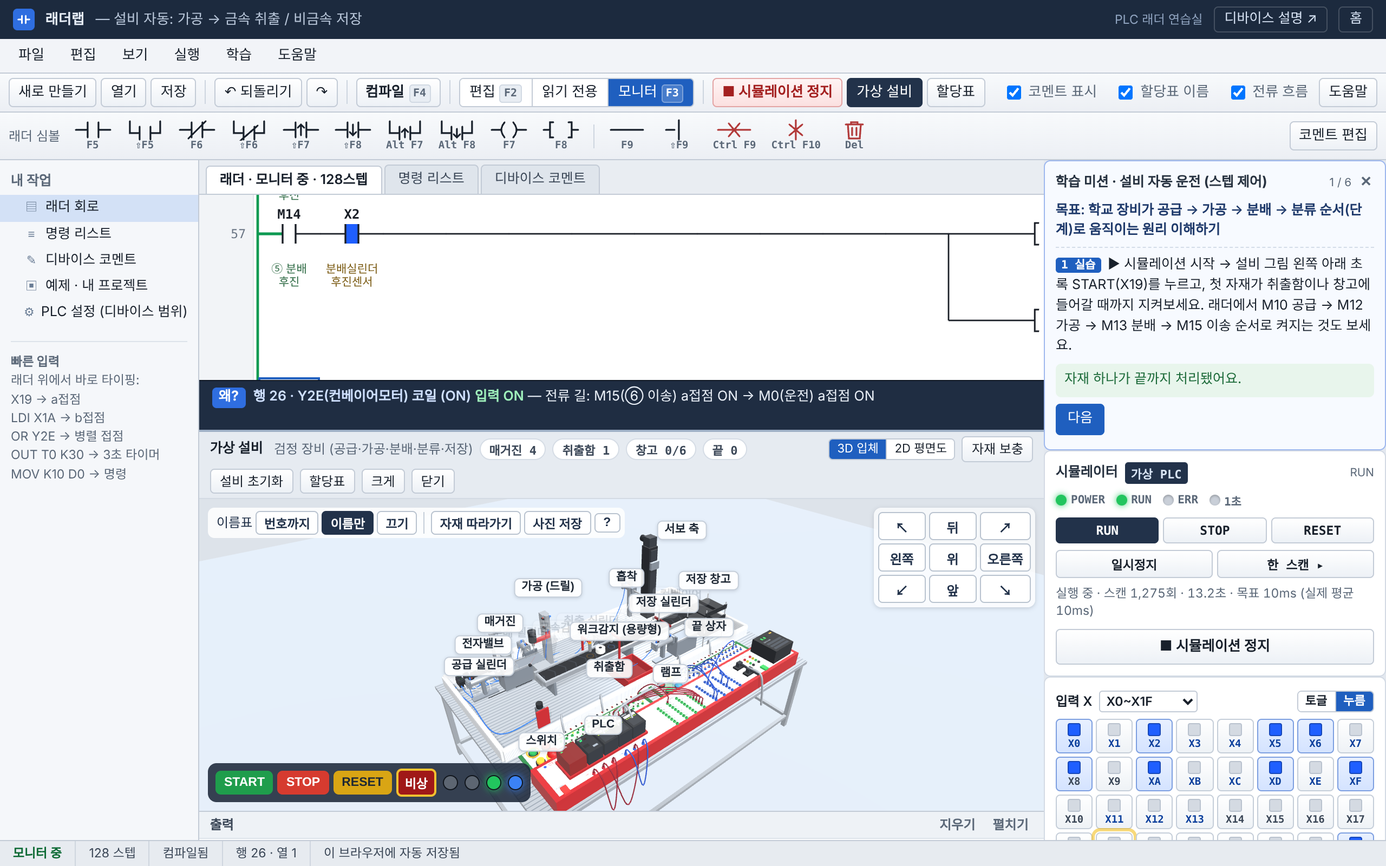
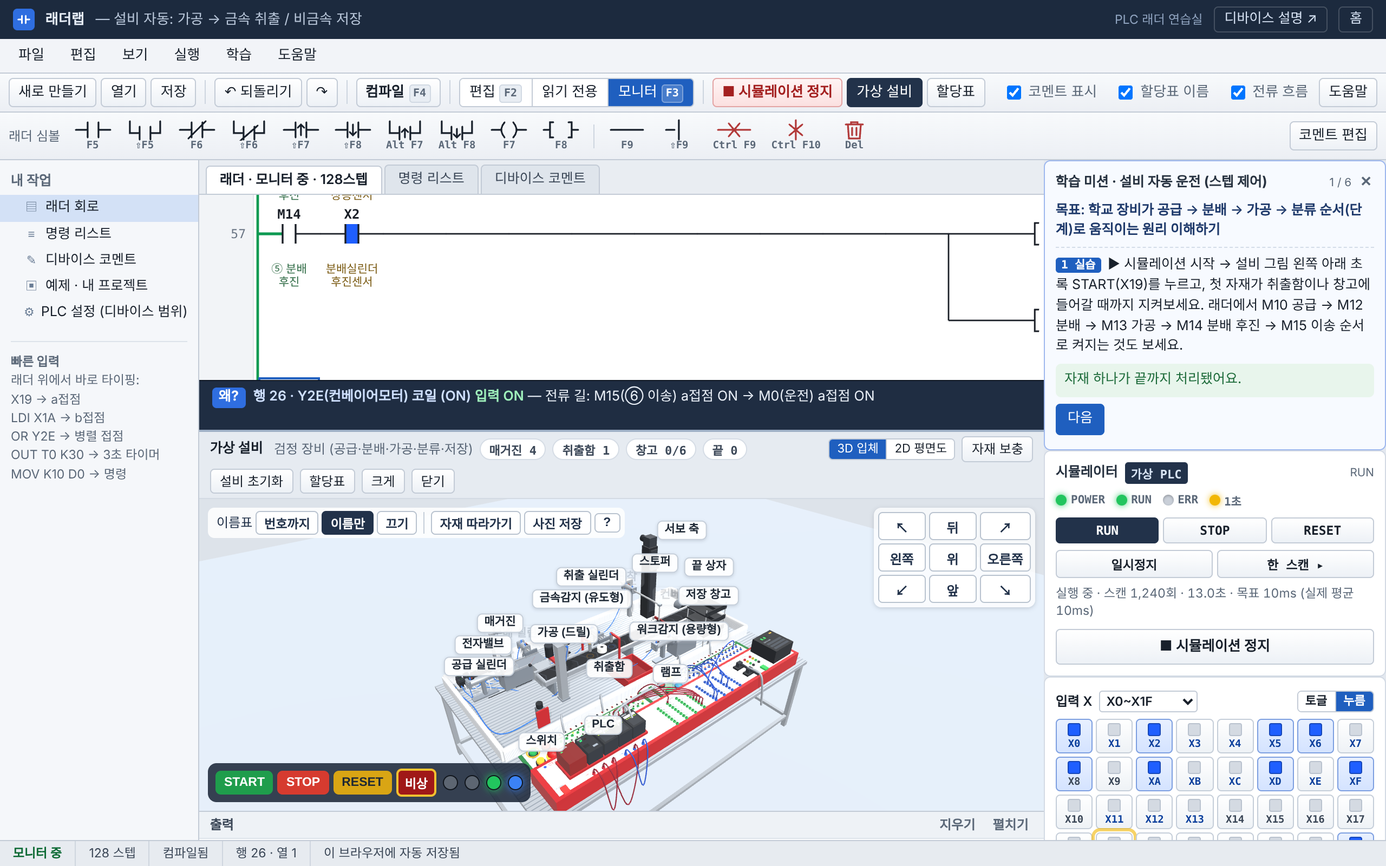
가상 설비 순서를 학교 장비대로: 분배 후 가공
- 학교 장비 순서 확인: 공급 → 분배(자재를 드릴 밑으로 밀고 잡음) → 가공 → 분배 후진 → 컨베이어
- 드릴을 분배가 자재를 밀어 넣는 컨베이어 시작점 위로 옮김 (2D·3D), 분배가 나온 채로 드릴이 끝까지 내려와 가공(X04 켜짐)
- 드릴이 내려와 있으면 컨베이어가 돌아도 자재 고정, 내려온 드릴 날에 자재가 걸리면 경고
- 앞 두 커밋의 임시 방식(충돌 정지, 드릴 옆으로 비킴) 정리
- 설비 자동 예제·미션 4 단계 순서 변경 (M12 분배 → M13 가공 → M14 분배 후진)
- 자가 검사 2개 교체 (97개), 메인 페이지·README·미리보기 그림 갱신

Claude-Session: https://claude.ai/code/session_01R4f7GGcSBJsGPJmPu1vaBs

diff --git a/simulator.html b/simulator.html
@@ -438,7 +438,7 @@ kbd{font:600 10px/1 var(--font-mono);color:var(--muted);background:#e8edf3;borde
       <div id="whyBar" hidden aria-live="polite"></div>
       <div id="plantPane" aria-label="가상 설비">
         <div id="plantHead">
-          <b>가상 설비</b><span class="muted">검정 장비 (공급·가공·분배·분류·저장)</span>
+          <b>가상 설비</b><span class="muted">검정 장비 (공급·분배·가공·분류·저장)</span>
           <span class="chip" id="plMag">매거진 0</span><span class="chip" id="plBox">취출함 0</span><span class="chip" id="plRack">창고 0/6</span><span class="chip" id="plDone">끝 0</span>
           <span class="grow"></span>
           <div class="seg sm" id="plViewSeg" role="group" aria-label="설비 보기 방식"><button data-pv="3d">3D 입체</button><button data-pv="2d">2D 평면도</button></div>
@@ -2427,7 +2427,7 @@ const EXAMPLES = [
     {c:{0:'LD M0', 1:'LD X10', 2:'LD X5', 3:'LD X0'}, o:'OUT Y22'},
     {c:{0:'LD X3'}, o:'OUT Y23'}],
     cm:{M0:'운전'}},
-  {name:'설비 자동: 가공 → 금속 취출 / 비금속 저장', desc:'학교 장비 할당표 그대로 — START: 공급 → 드릴 가공 → 분배 → 이송. 금속은 워크감지 자리에서 취출함으로, 비금속은 스토퍼에서 흡착해 창고에 저장. STOP: 하던 단계를 기억하고 멈춤, START로 이어서', plant:true, rows:[
+  {name:'설비 자동: 가공 → 금속 취출 / 비금속 저장', desc:'학교 장비 할당표 그대로 — START: 공급 → 분배(드릴 밑으로) → 드릴 가공 → 분배 후진 → 이송. 금속은 워크감지 자리에서 취출함으로, 비금속은 스토퍼에서 흡착해 창고에 저장. STOP: 하던 단계를 기억하고 멈춤, START로 이어서', plant:true, rows:[
     {c:{0:'LD X19', 1:'LDI X1A', 2:'LDI X1C'}, o:'OUT M0', v:[1]},
     {c:{0:'LD M0'}},
     {c:{0:'LD M0'}, o:'OUT Y34'},
@@ -2442,15 +2442,15 @@ const EXAMPLES = [
     {c:{0:'LD M11', 1:'LD M0'}, o:'OUT Y21'},
     {c:{0:'LD M11', 1:'LD X0'}, o:'SET M12', v:[11]},
     {o:'RST M11'},
-    {c:{0:'LD M12', 1:'LD M0'}, o:'OUT Y24', v:[11]},
-    {o:'OUT Y2D'},
-    {c:{0:'LD M12', 1:'LD X4'}, o:'OUT T0 K10'},
-    {c:{0:'LD T0'}, o:'SET M13', v:[11]},
+    {c:{0:'LD M12', 1:'LD M0'}, o:'OUT Y22'},
+    {c:{0:'LD M12', 1:'LD X3'}, o:'SET M13', v:[11]},
     {o:'RST M12'},
-    {c:{0:'LD M13', 1:'LD X5', 2:'LD M0'}, o:'OUT Y22'},
-    {c:{0:'LD M13', 1:'LD X3'}, o:'SET M14', v:[11]},
+    {c:{0:'LD M13', 1:'LD M0'}, o:'OUT Y24', v:[11]},
+    {o:'OUT Y2D'},
+    {c:{0:'LD M13', 1:'LD X4'}, o:'OUT T0 K10'},
+    {c:{0:'LD T0'}, o:'SET M14', v:[11]},
     {o:'RST M13'},
-    {c:{0:'LD M14', 1:'LD M0'}, o:'OUT Y23'},
+    {c:{0:'LD M14', 1:'LD X5', 2:'LD M0'}, o:'OUT Y23'},
     {c:{0:'LD M14', 1:'LD X2'}, o:'SET M15', v:[11]},
     {o:'RST M14'},
     {c:{0:'LD M15', 1:'LD M0'}, o:'OUT Y2E'},
@@ -2482,7 +2482,7 @@ const EXAMPLES = [
     {c:{0:'LD M23', 1:'LD M0'}, o:'OUT Y2C'},
     {c:{0:'LD M23', 1:'LD XD'}, o:'RST M23', v:[11]},
     {o:'RST M9'}],
-    cm:{M0:'운전', M9:'사이클 중', M10:'① 공급 전진', M11:'② 공급 후진', M12:'③ 드릴 가공', M13:'④ 분배 전진', M14:'⑤ 분배 후진', M15:'⑥ 이송',
+    cm:{M0:'운전', M9:'사이클 중', M10:'① 공급 전진', M11:'② 공급 후진', M12:'③ 분배 전진', M13:'④ 드릴 가공', M14:'⑤ 분배 후진', M15:'⑥ 이송',
       M16:'⑦ 취출 전진', M17:'⑧ 취출 후진', M18:'⑦ 흡착', M19:'⑧ 흡착 전진', M21:'⑨ 흡착 후진', M22:'⑩ 저장 전진', M23:'⑪ 저장 후진', M20:'금속 기억', T0:'드릴 1초'}},
 ];
 function buildRows(spec) {
@@ -2760,7 +2760,7 @@ new ResizeObserver(() => { layout(); render(); }).observe($('#viewLadder'));
 
 /* =====================================================================
    14. 가상 설비 — 학교 검정 장비 (CT-4200M 생산자동화 실습 장치) 모양
-       공급 → 가공(드릴) → 분배 → 컨베이어 → 금속 취출 / 스토퍼 → 흡착 → 저장
+       공급 → 분배(드릴 밑으로) → 가공(드릴) → 분배 후진 → 컨베이어 → 금속 취출 / 스토퍼 → 흡착 → 저장
        I/O는 학교 "입력·출력 할당표 (검정 장비용)" 그대로
    ===================================================================== */
 const PLANT_IO = [
@@ -2822,9 +2822,9 @@ const PG = {W:1000, H:384, R:17, v:110,
   binX0:444, binX1:556, binY0:262, binY1:376, endX0:912, endX1:994, endY0:178, endY1:258};
 PG.supTip0 = PG.mx - PG.R - 5; PG.supStroke = PG.px - PG.R - PG.supTip0;
 PG.disTip0 = PG.ry - PG.R - 5; PG.disStroke = PG.cy - PG.R - PG.disTip0;
-// 드릴은 분배 푸셔 로드 길에서 옆(+x)으로 비켜 있음 → 분배가 나와 있어도 끝까지 내려옴
-// 푸셔 판은 드릴 날 쪽(PG.dOff - 7 바깥)을 비워서 드릴과 안 겹침
-PG.dOff = 12;
+// 학교 장비 순서: 공급 → 분배(자재를 드릴 밑으로 밀어 넣고 잡고 있음) → 가공 → 분배 후진 → 컨베이어
+// 드릴은 분배가 자재를 밀어 넣는 자리(컨베이어 시작점) 위에 있음
+PG.drX = PG.px; PG.drY = PG.cy;
 PG.ejTip0 = PG.bt - 5; PG.ejStroke = 76;
 PG.stoTip0 = PG.xs - PG.R - 5; PG.stoStroke = PG.rackX0 + 4 - PG.stoTip0;
 PG.pinX = PG.xs + PG.R + 3;
@@ -2899,13 +2899,13 @@ function plantStep(dt) {
   if (conv) PL.belt = (PL.belt + G.v * dt) % 40;
   if (motor) PL.spin = (PL.spin + dt * 16) % (Math.PI * 2);
 
-  // ── 가공 위치(드릴 아래)의 자재와 드릴
-  const atDrill = () => PL.pieces.find(p => (p.st === 'rail' || p.st === 'slide') && Math.abs(p.x - G.px) < 5 && Math.abs(p.y - G.ry) < 4);
+  // ── 가공 위치(드릴 아래 = 분배가 밀어 넣은 컨베이어 시작점)의 자재와 드릴
+  const atDrill = () => PL.pieces.find(p => (p.st === 'belt' || p.st === 'slide') && Math.abs(p.x - G.drX) < 5 && Math.abs(p.y - G.drY) < 4);
   let under = atDrill();
   if (under && drlOn && !motor && C.drl > 0.5 && prev.drl <= 0.5) { C.drl = 0.5; plantWarn(`드릴 모터(${sheetDev(PL.dev.yMot)})가 꺼져 있어서 자재에 걸려 끝까지 못 내려가요`); }
   if (under && motor && C.drl > 0.9) { under.dt = (under.dt || 0) + dt; if (under.dt > 0.35) under.drilled = true; }
 
-  // ── 공급: 매거진 맨 아래 자재를 뒤쪽 레일을 따라 가공 위치로 민다
+  // ── 공급: 매거진 맨 아래 자재를 뒤쪽 레일을 따라 분배 위치로 민다
   if (PL.stack.length && G.supTip0 + G.supStroke * C.sup < G.mx - R - 2 && !PL.pieces.some(p => p.st === 'rail' && p.x < G.mx + 2 * R - 1)) {
     PL.pieces.push({id:PL.uid++, kind:PL.stack.shift(), x:G.mx, y:G.ry, st:'rail', drilled:false});
   }
@@ -2917,19 +2917,18 @@ function plantStep(dt) {
   for (let i = rail.length - 1; i >= 0; i--) {
     const p = rail[i];
     if (C.dis > 0.04 && p.x < G.px - 5) lim = Math.min(lim, G.px - 2 * R - 6);   // 분배 푸셔가 내려와 있으면 그 앞에서 막힘
-    if (p === under && C.drl > 0.12) lim = Math.min(lim, p.x);  // 드릴이 내려와 있으면 자재가 고정됨
     if (p.x > lim) p.x = lim;
     lim = p.x - 2 * R;
   }
   if (rail.length && rail[0].x - R < tip - 0.01) { tip = rail[0].x - R; C.sup = clamp((tip - G.supTip0) / G.supStroke, 0, 1); }
 
-  // ── 분배: 가공 위치의 자재를 앞쪽 컨베이어 위로 민다
+  // ── 분배: 분배 위치의 자재를 앞쪽 드릴 밑(컨베이어 시작점)으로 밀어 넣고, 나와 있는 동안 잡고 있음
   let dTip = G.disTip0 + G.disStroke * C.dis;
   under = atDrill();
   const pushTarget = PL.pieces.find(p => (p.st === 'rail' && Math.abs(p.x - G.px) < 5) || p.st === 'slide');
   if (pushTarget && dTip + R > pushTarget.y) {
     let maxY = G.cy;
-    if (pushTarget === under && C.drl > 0.12) maxY = pushTarget.y;                              // 드릴에 걸림
+    if (C.drl > 0.12 && pushTarget !== under) { maxY = Math.min(maxY, G.drY - R - 3); plantWarn('드릴이 내려와 있어서 자재가 드릴 날에 걸려요 — 드릴을 먼저 올리세요'); }   // 내려온 드릴 날에 걸림
     if (PL.pieces.some(q => q.st === 'belt' && Math.abs(q.x - G.px) < 2 * R)) maxY = Math.min(maxY, G.cy - 2 * R - 1); // 벨트 위 자재와 부딪힘
     maxY = Math.max(maxY, pushTarget.y);
     pushTarget.y = Math.min(dTip + R, maxY); pushTarget.x = G.px; pushTarget.st = 'slide';
@@ -2941,9 +2940,11 @@ function plantStep(dt) {
   // ── 컨베이어 (앞 자재 · 스토퍼 · 취출 푸셔에서 멈춤, 끝에서 상자로 떨어짐)
   const belt = PL.pieces.filter(p => p.st === 'belt').sort((a, b) => b.x - a.x);
   const stopUp = C.stp < 0.5, ejDown = C.ej > 0.12;
+  const drilling = C.drl > 0.12 ? atDrill() : null;   // 드릴이 내려와 있으면 그 자재는 컨베이어가 돌아도 그 자리에 고정
+  if (drilling && conv && drilling.st === 'belt') plantWarn('드릴이 내려와 있어서 자재가 안 움직여요 — 드릴을 올린 뒤 컨베이어를 돌리세요');
   let ahead = null;
   for (const p of belt) {
-    if (conv) {
+    if (conv && p !== drilling) {
       let l = Infinity;
       if (stopUp && p.x <= G.xs + 0.5) l = Math.min(l, G.xs);
       if (ejDown && p.x < G.xe - R - 10) l = Math.min(l, G.xe - 2 * R - 10);
@@ -3031,7 +3032,7 @@ function pieceDraw(c, x, y, r, kind, drilled, alpha) {
   c.beginPath(); c.arc(x, y, r, 0, Math.PI * 2); c.fill();
   c.lineWidth = 1.5; c.strokeStyle = kind === 'metal' ? '#6d7681' : '#b3b9c2'; c.stroke();
   c.beginPath(); c.arc(x, y, r * 0.72, 0, Math.PI * 2); c.lineWidth = 1; c.strokeStyle = kind === 'metal' ? 'rgba(90,100,112,.35)' : 'rgba(150,158,168,.35)'; c.stroke();
-  if (drilled) { c.beginPath(); c.arc(x + r * PG.dOff / PG.R, y, r * 0.22, 0, Math.PI * 2); c.fillStyle = '#2b3036'; c.fill(); }   // 드릴이 옆으로 비켜 있어서 구멍도 중심에서 약간 옆
+  if (drilled) { c.beginPath(); c.arc(x, y, r * 0.3, 0, Math.PI * 2); c.fillStyle = '#2b3036'; c.fill(); }
   c.restore();
 }
 function ptext(c, t, x, y, size, color, align, weight) {
@@ -3149,7 +3150,7 @@ function renderPlant() {
   const dTip = G.disTip0 + G.disStroke * C.dis;
   cylBody(c, G.px - 13, 12, 26, 50);
   c.fillStyle = '#9da7b3'; c.fillRect(G.px - 4, 62, 8, Math.max(0, dTip - 68));
-  c.fillStyle = '#5f6a77'; c.fillRect(G.px - R - 6, dTip - 6, R + 6 + G.dOff - 7, 6);   // 드릴 날 쪽은 비운 판 (로드 쪽 절반만 밂)
+  c.fillStyle = '#5f6a77'; c.fillRect(G.px - R - 6, dTip - 6, 2 * R + 12, 6);
   ptext(c, '분배 실린더', G.px + 20, 22, 11.5, PCOL.ink, 'left'); pmono(c, `${ydev('yDisF')} 전진 · ${ydev('yDisB')} 후진`, G.px + 20, 35, 10, PCOL.dev, 'left');
   stag(c, G.px + 20, 49, '후진', 'disB'); stag(c, G.px + 20, 62, '전진', 'disF');
   // 분배센서 (광화이버)
@@ -3158,13 +3159,15 @@ function renderPlant() {
   c.beginPath(); c.moveTo(G.px - R - 12, G.ry + R + 10); c.lineTo(G.px - 4, G.ry + 4); c.stroke(); c.setLineDash([]);
   ptext(c, '분배센서', G.px - R - 24, G.ry + R + 18, 10.5, PCOL.ink, 'right'); stag(c, G.px - R - 20, G.ry + R + 31, '', 'dis', 'right');
 
-  // 가공 (드릴): 기둥 + 팔 + 모터 헤드, 내려가면 작게 보임
-  const dx = G.px + 42, dy = G.ry - 38;
-  c.fillStyle = '#5b6470'; c.fillRect(dx, dy, 36, 34); c.fillStyle = '#737d8a'; c.fillRect(dx + 4, dy + 4, 28, 10);
-  c.strokeStyle = '#454d57'; c.lineWidth = 12; c.lineCap = 'round'; c.beginPath(); c.moveTo(dx + 6, dy + 18); c.lineTo(G.px + G.dOff, G.ry); c.stroke(); c.lineCap = 'butt';
+  // 가공 (드릴): 분배가 자재를 밀어 넣는 컨베이어 시작점 위 — 기둥은 컨베이어 바로 앞, 내려가면 머리가 작게 보임
+  c.fillStyle = '#5b6470'; c.fillRect(G.drX - 14, G.bb + 2, 28, 14);
+  c.strokeStyle = 'rgba(69,77,87,.85)'; c.lineWidth = 12; c.lineCap = 'round'; c.beginPath(); c.moveTo(G.drX, G.bb + 8); c.lineTo(G.drX, G.drY); c.stroke(); c.lineCap = 'butt';
   const hr = 13 - 3.5 * C.drl;
-  c.beginPath(); c.arc(G.px + G.dOff, G.ry, hr, 0, Math.PI * 2); c.fillStyle = '#1b1f24'; c.fill(); c.lineWidth = 2; c.strokeStyle = '#4a525d'; c.stroke();
-  if (plantY('yMot')) { c.strokeStyle = '#9fe0b4'; c.lineWidth = 2; for (let a = 0; a < 3; a++) { const t = PL.spin + a * 2.094; c.beginPath(); c.moveTo(G.px + G.dOff, G.ry); c.lineTo(G.px + G.dOff + Math.cos(t) * (hr - 2), G.ry + Math.sin(t) * (hr - 2)); c.stroke(); } }
+  c.beginPath(); c.arc(G.drX, G.drY, hr, 0, Math.PI * 2); c.fillStyle = '#1b1f24'; c.fill(); c.lineWidth = 2; c.strokeStyle = '#4a525d'; c.stroke();
+  if (plantY('yMot')) { c.strokeStyle = '#9fe0b4'; c.lineWidth = 2; for (let a = 0; a < 3; a++) { const t = PL.spin + a * 2.094; c.beginPath(); c.moveTo(G.drX, G.drY); c.lineTo(G.drX + Math.cos(t) * (hr - 2), G.drY + Math.sin(t) * (hr - 2)); c.stroke(); } }
+  // 이름표는 위쪽 빈자리에, 점선으로 드릴을 가리킴
+  const dx = G.px + 42, dy = G.ry - 38;
+  c.setLineDash([3, 3]); c.strokeStyle = 'rgba(90,100,112,.7)'; c.lineWidth = 1.2; c.beginPath(); c.moveTo(dx + 38, dy + 34); c.lineTo(G.drX + 10, G.drY - 11); c.stroke(); c.setLineDash([]);
   c.fillStyle = '#c4cbd4'; c.fillRect(dx + 42, dy, 6, 34); c.fillStyle = '#1f5fbf'; c.fillRect(dx + 40, dy + 30 * C.drl, 10, 4);
   ptext(c, '가공 (드릴)', dx + 54, dy + 8, 11.5, PCOL.ink, 'left'); pmono(c, `${ydev('yDrl')} 하강 · ${ydev('yMot')} 모터`, dx + 54, dy + 21, 10, PCOL.dev, 'left');
   stag(c, dx + 54, dy + 35, '상승', 'drlU'); stag(c, dx + 54, dy + 48, '하강', 'drlD');
@@ -3597,14 +3600,14 @@ const MISSIONS = {
     {t:'task', hl:['X1B', 'X11'], text:'설정 바꾸기: F2 → C0 코일을 더블클릭(휴대폰은 두 번 탭)해서 C0 K3으로 → F4 → F3 → X1B로 리셋 → X11 3번', check:c => c.hasIns('OUT C0 K3') && c.word('C0') === 3 && c.bit('Y34'), ok:'3번 만에 켜졌어요.'},
     {t:'explain', text:'정리: OUT C0 K□는 입력이 켜질 때마다 1씩 세고 설정값이 되면 C0 접점이 ON 돼요. 코일이 꺼져도 숫자를 기억하기 때문에, 다시 세려면 RST C0으로 0을 만들어야 해요.'},
   ]},
-  9:{title:'설비 자동 운전 (스텝 제어)', goal:'학교 장비가 공급 → 가공 → 분배 → 분류 순서(단계)로 움직이는 원리 이해하기', steps:[
-    {t:'task', hl:['X19'], onStart:() => { MS.base = plantDoneCount(); }, text:'▶ 시뮬레이션 시작 → 설비 그림 왼쪽 아래 초록 START(X19)를 누르고, 첫 자재가 취출함이나 창고에 들어갈 때까지 지켜보세요. 래더에서 M10 공급 → M12 가공 → M13 분배 → M15 이송 순서로 켜지는 것도 보세요.', check:c => c.run() && plantDoneCount() > MS.base, ok:'자재 하나가 끝까지 처리됐어요.', hint:'매거진이 비었으면 설비 위쪽 "자재 보충"을 누르세요. 비상(X1C)이 잠겨 있으면 한 번 더 눌러 푸세요.'},
+  9:{title:'설비 자동 운전 (스텝 제어)', goal:'학교 장비가 공급 → 분배 → 가공 → 분류 순서(단계)로 움직이는 원리 이해하기', steps:[
+    {t:'task', hl:['X19'], onStart:() => { MS.base = plantDoneCount(); }, text:'▶ 시뮬레이션 시작 → 설비 그림 왼쪽 아래 초록 START(X19)를 누르고, 첫 자재가 취출함이나 창고에 들어갈 때까지 지켜보세요. 래더에서 M10 공급 → M12 분배 → M13 가공 → M14 분배 후진 → M15 이송 순서로 켜지는 것도 보세요.', check:c => c.run() && plantDoneCount() > MS.base, ok:'자재 하나가 끝까지 처리됐어요.', hint:'매거진이 비었으면 설비 위쪽 "자재 보충"을 누르세요. 비상(X1C)이 잠겨 있으면 한 번 더 눌러 푸세요.'},
     {t:'predict', text:'흰색(비금속) 자재는 어디로 갈까요?', choices:['취출함', '스토퍼에서 멈춘 뒤 흡착해서 창고로', '컨베이어 끝 상자'], answer:1, explain:'금속감지(X12, 유도형)는 금속만 감지해요. 흰색이면 금속 기억(M20)이 안 켜져서 워크감지(X11)에서 멈추지 않고, 스토퍼에 걸린 뒤 스토퍼검출(X13)로 흡착 단계(M18)가 시작돼요.'},
     {t:'task', hl:['X1A'], text:'컨베이어가 자재를 옮기는 중(M15 켜짐)에 빨강 STOP(X1A)을 눌러 보세요.', check:c => c.seen('X1A', 1) && !c.bit('Y2E') && c.bit('M15'), ok:'컨베이어가 그 자리에서 멈췄어요. 이송 단계 M15는 그대로 켜져 있죠?', hint:'자재가 컨베이어 위에서 움직일 때 눌러야 해요. 이미 지나갔으면 START로 다음 자재를 보내고 다시 해 보세요.',
       live:c => (c.bit('M15') ? (c.bit('Y2E') ? '지금 이송 중이에요 — STOP을 누르세요!' : '이송 단계인데 컨베이어가 멈춰 있어요') : '지금은 이송 중이 아니에요 — 자재가 컨베이어 위에서 움직일 때를 기다리세요')},
     {t:'predict', text:'이 상태에서 START를 다시 누르면 어떻게 될까요?', choices:['처음(공급)부터 다시 시작', '하던 단계(이송)부터 이어서', '아무것도 안 움직임'], answer:1, explain:'단계 릴레이(M15 등)는 SET으로 켜서 정지해도 그대로 기억해요. 출력에만 운전(M0) 조건이 걸려 있어서, START로 운전이 켜지면 그 단계부터 이어서 움직여요.'},
     {t:'task', hl:['X19'], onStart:() => { MS.base = plantDoneCount(); }, text:'START를 눌러 다시 시작하고, 멈췄던 자재가 끝까지 처리되는지 확인하세요.', check:c => c.seen('X19', 1) && plantDoneCount() > MS.base, ok:'멈췄던 자재가 이어서 처리됐어요.', hint:'매거진이 비었으면 "자재 보충"을 누르세요.'},
-    {t:'explain', text:'정리: M10 공급 → M11 복귀 → M12 가공 → M13·M14 분배 → M15 이송 → (금속) M16·M17 취출 / (비금속) M18~M23 흡착·저장처럼 한 번에 한 단계만 켜지게 하는 방식을 스텝(단계) 제어라고 해요. 다음 단계는 SET, 지금 단계는 RST로 꺼요. 실린더는 더블 솔레노이드 밸브라서 출력을 잠깐만 줘도 끝까지 가고, 반대쪽 출력을 줄 때까지 그 자리를 지켜요.'},
+    {t:'explain', text:'정리: M10 공급 → M11 복귀 → M12 분배(드릴 밑으로) → M13 가공 → M14 분배 후진 → M15 이송 → (금속) M16·M17 취출 / (비금속) M18~M23 흡착·저장처럼 한 번에 한 단계만 켜지게 하는 방식을 스텝(단계) 제어라고 해요. 다음 단계는 SET, 지금 단계는 RST로 꺼요. 실린더는 더블 솔레노이드 밸브라서 출력을 잠깐만 줘도 끝까지 가고, 반대쪽 출력을 줄 때까지 그 자리를 지켜요.'},
   ]},
 };
 const MISSION_ORDER = [0, 2, 4, 9];
@@ -3807,14 +3810,16 @@ function selfTest() {
     fresh([]);
     headless(buildRows([{c:{0:'LD X19'}, o:'OUT Y20'}]), 1200, [...pulse(0x19, 0, 80), probe(1100, '더블 솔레노이드: Y20을 0.08초만 켜도 끝까지 전진', M => [PL.sens.supF === true && M.Y[0x20] === 0, `공급 전진센서 X01=${PL.sens.supF ? 1 : 0}`], '가상 설비')], true);
     fresh([]);
-    PL.pieces.push({id:PL.uid++, kind:'white', x:PG.px, y:PG.ry, st:'rail', drilled:false}); plantStep(0);
+    PL.pieces.push({id:PL.uid++, kind:'white', x:PG.drX, y:PG.drY, st:'belt', drilled:false}); plantStep(0);
     headless(buildRows([{c:{0:'LD X19'}, o:'OUT Y24'}]), 1500, [{at:0, fn:x(0x19, 1)}, probe(1400, '드릴 모터(Y2D) 없이 내리면 하강센서 X04가 안 켜짐', () => [!PL.sens.drlD && PL.cyl.drl <= 0.51, `하강 ${Math.round(PL.cyl.drl * 100)}%`], '가상 설비')], true);
-    // 드릴이 분배 푸셔 길에서 비켜 있어서 서로 안 부딪힘
-    const dd = buildRows([{c:{0:'LD X14'}, o:'OUT Y22'}, {c:{0:'LD X16'}, o:'OUT Y24'}]);
+    // 학교 장비 순서: 분배가 자재를 드릴 밑으로 밀어 넣고 잡은 채로 가공
+    const dd = buildRows([{c:{0:'LD X14'}, o:'OUT Y22'}, {c:{0:'LD X16'}, o:'OUT Y24'}, {c:{0:'LD X16'}, o:'OUT Y2D'}, {c:{0:'LD X17'}, o:'OUT Y2E'}]);
     fresh([]);
-    headless(dd, 1800, [{at:0, fn:x(0x14, 1)}, {at:700, fn:x(0x16, 1)}, probe(1700, '분배가 나와 있어도 드릴이 끝까지 내려옴 (X03·X04 켜짐)', () => [PL.sens.disF && PL.sens.drlD, `분배 ${Math.round(PL.cyl.dis * 100)}% · 하강 ${Math.round(PL.cyl.drl * 100)}%`], '가상 설비')], true);
+    PL.pieces.push({id:PL.uid++, kind:'white', x:PG.px, y:PG.ry, st:'rail', drilled:false}); plantStep(0);
+    headless(dd, 2400, [{at:0, fn:x(0x14, 1)}, {at:700, fn:x(0x16, 1)}, probe(2300, '분배가 자재를 드릴 밑으로 밀고 나온 채로 가공 → X03·X04 켜지고 구멍', () => { const p0 = PL.pieces[0]; return [PL.sens.disF && PL.sens.drlD && !!p0 && p0.drilled, `분배 ${Math.round(PL.cyl.dis * 100)}% · 하강 ${Math.round(PL.cyl.drl * 100)}% · 구멍 ${p0 && p0.drilled ? 'O' : 'X'}`]; }, '가상 설비')], true);
     fresh([]);
-    headless(dd, 1800, [{at:0, fn:x(0x16, 1)}, {at:800, fn:x(0x14, 1)}, probe(1700, '드릴이 내려와 있어도 분배가 끝까지 나감 (X03·X04 켜짐)', () => [PL.sens.disF && PL.sens.drlD, `분배 ${Math.round(PL.cyl.dis * 100)}% · 하강 ${Math.round(PL.cyl.drl * 100)}%`], '가상 설비')], true);
+    PL.pieces.push({id:PL.uid++, kind:'white', x:PG.drX, y:PG.drY, st:'belt', drilled:false}); plantStep(0);
+    headless(dd, 1800, [{at:0, fn:x(0x16, 1)}, {at:900, fn:x(0x17, 1)}, probe(1700, '드릴이 내려와 있으면 컨베이어가 돌아도 자재가 그 자리에 고정', () => { const p0 = PL.pieces[0]; return [!!p0 && Math.abs(p0.x - PG.drX) < 1, `자재 위치 ${p0 ? Math.round(p0.x) : '-'}`]; }, '가상 설비')], true);
     fresh([]);
   } catch (e) { add('가상 설비', '실행 중 예외', false, e.message); }
   finally {

diff --git a/assets/plant3d.js b/assets/plant3d.js
@@ -191,11 +191,11 @@ function build() {
 
   // ── 자재
   const pcGeo = new THREE.CylinderGeometry(PR, PR, PH, 32);
-  const holeGeo = new THREE.CircleGeometry(PR * 0.22, 20); holeGeo.rotateX(-Math.PI / 2);
+  const holeGeo = new THREE.CircleGeometry(PR * 0.3, 20); holeGeo.rotateX(-Math.PI / 2);
   function makePiece() {
     const g = new THREE.Group();
     const body = new THREE.Mesh(pcGeo, M.whitePc); body.castShadow = true; body.receiveShadow = true; g.add(body);
-    const hole = new THREE.Mesh(holeGeo, M.hole); hole.position.set(G.dOff * S, PH / 2 + 0.002, 0); g.add(hole);   // 드릴 자리(중심에서 옆으로 비켜 있음)
+    const hole = new THREE.Mesh(holeGeo, M.hole); hole.position.y = PH / 2 + 0.002; g.add(hole);
     g.userData = { body, hole }; scene.add(g); return g;
   }
   function setPiece(g, kind, drilled) {
@@ -221,7 +221,7 @@ function build() {
   // ── 공급 실린더 (축 X)
   const sup = cylinderUnit({ axis: 'x', from: P(22, G.ry), len: 96 * S, y: H0 + PH / 2, back: 'supB', front: 'supF' });
   // ── 분배 실린더 (축 Z, 뒤 → 앞)
-  const dis = cylinderUnit({ axis: 'z', from: P(G.px, 12), len: 50 * S, y: H0 + PH / 2, back: 'disB', front: 'disF', plateW: (2 * R + 12) * S, slot: { x: G.dOff * S, w: 0.14 } });
+  const dis = cylinderUnit({ axis: 'z', from: P(G.px, 12), len: 50 * S, y: H0 + PH / 2, back: 'disB', front: 'disF', plateW: (2 * R + 12) * S });
   const fiberDis = fiberHead(P(G.px - R - 18, G.ry + R + 12), P(G.px, G.ry), 'dis');
   // ── 취출 실린더 (축 Z, 뒤 → 앞) + 가이드 봉
   const ej = cylinderUnit({ axis: 'z', from: P(G.xe, 90), len: 66 * S, y: H0 + PH / 2, back: 'ejB', front: 'ejF', plateW: (2 * R + 20) * S, guided: true });
@@ -255,11 +255,7 @@ function build() {
     }
     scene.add(shadowAll(body));
     u.rod = rodMesh(0.035, M.rod, o.axis);
-    if (o.slot) {   // 드릴 날이 지나가는 쪽을 비운 판 (로드 쪽 절반만 밂)
-      const x0 = -o.plateW / 2, s0 = o.slot.x - o.slot.w / 2;
-      u.plate = new THREE.Group(); scene.add(u.plate);
-      box(s0 - x0, 0.2, 0.06, M.gray, (x0 + s0) / 2, 0, 0, u.plate);
-    } else u.plate = o.axis === 'x' ? box(0.06, 0.2, (2 * R + 6) * S, M.gray, 0, 0, 0) : box(o.plateW || 0.4, 0.2, 0.06, M.gray, 0, 0, 0);
+    u.plate = o.axis === 'x' ? box(0.06, 0.2, (2 * R + 6) * S, M.gray, 0, 0, 0) : box(o.plateW || 0.4, 0.2, 0.06, M.gray, 0, 0, 0);
     if (o.guided) { u.g1 = rodMesh(0.02, M.rod, o.axis); u.g2 = rodMesh(0.02, M.rod, o.axis); }
     // tip: 2D 좌표의 푸셔 끝 (x 또는 y px)
     u.set = (tipPx) => {
@@ -288,17 +284,17 @@ function build() {
     return { head: h, beam, k };
   }
 
-  // ── 가공 (드릴): 기둥 + 위아래로 움직이는 헤드 + 모터
-  const dp = P(G.px + G.dOff, G.ry), dcol = P(G.px + 62, G.ry - 22);   // 드릴은 분배 로드 길에서 옆으로 비켜 있음
+  // ── 가공 (드릴): 분배가 자재를 밀어 넣는 컨베이어 시작점 위 — 기둥은 컨베이어 앞쪽, 위아래로 움직이는 헤드 + 모터
+  const dp = P(G.drX, G.drY), dcol = P(G.drX, G.bb + 36);
   box(0.24, 2.05, 0.24, M.alu, dcol.x, 1.02, dcol.z);
   box(0.3, 0.06, 0.3, M.aluD, dcol.x, 0.03, dcol.z);
-  cyl(0.09, 0.5, M.alu, 'y', dcol.x, 1.8, dcol.z + 0.17);           // 가공 실린더 (세로)
-  cyl(0.03, 0.08, M.blueFit, 'x', dcol.x + 0.11, 1.95, dcol.z + 0.17);
-  reed(dcol.x - 0.14, 1.95, dcol.z + 0.17, 'drlU', 'z');
-  reed(dcol.x - 0.14, 1.62, dcol.z + 0.17, 'drlD', 'z');
+  cyl(0.09, 0.5, M.alu, 'y', dcol.x + 0.2, 1.8, dcol.z);            // 가공 실린더 (세로)
+  cyl(0.03, 0.08, M.blueFit, 'z', dcol.x + 0.2, 1.95, dcol.z + 0.11);
+  reed(dcol.x + 0.31, 1.95, dcol.z, 'drlU', 'x');
+  reed(dcol.x + 0.31, 1.62, dcol.z, 'drlD', 'x');
   const drill = new THREE.Group();
-  box(0.18, 0.22, 0.2, M.red, dcol.x - dp.x, 0, dcol.z - dp.z + 0.02, drill);      // 슬라이드 블록 (빨강)
-  box(Math.abs(dcol.x - dp.x), 0.1, 0.12, M.red, (dcol.x - dp.x) / 2, 0, 0, drill); // 팔
+  box(0.22, 0.22, 0.18, M.red, 0, 0, dcol.z - dp.z - 0.03, drill);                    // 슬라이드 블록 (빨강)
+  box(0.12, 0.1, Math.abs(dcol.z - dp.z), M.red, 0, 0, (dcol.z - dp.z) / 2, drill);   // 팔
   const spin = new THREE.Group(); drill.add(spin);
   cyl(0.13, 0.36, M.black, 'y', 0, 0.2, 0, spin);                    // 드릴 모터 (검정 캡)
   cyl(0.135, 0.04, M.black2, 'y', 0, 0.4, 0, spin);
@@ -604,7 +600,7 @@ function build() {
   // 공압 배관: 밸브 → 각 실린더 (파랑 = 전진/동작 쪽, 흰색 = 후진 쪽)
   const fitOf = {
     sup: sup.fits, dis: dis.fits, ej: ej.fits, sto: sto.fits,
-    drl: [V3(dcol.x + 0.11, 1.95, dcol.z + 0.17)], stp: [V3(sp.x + 0.14, 0.25, sp.z)],
+    drl: [V3(dcol.x + 0.2, 1.95, dcol.z + 0.15)], stp: [V3(sp.x + 0.14, 0.25, sp.z)],
     suc: [V3(sc.x, SUC_Y + 0.17, sc.z + 0.12), V3(sc.x, SUC_Y + 0.17, sc.z + suc.len - 0.12)], vac: [V3(vacBox.x - 0.11, 0.06, vacBox.z)],
   };
   for (const vp of valvePorts) {

diff --git a/index.html b/index.html
@@ -105,7 +105,7 @@
 <section id="plant">
   <div class="wrap">
     <h2>가상 설비: 학교 검정 장비가 래더대로 움직여요</h2>
-    <p class="lead">생산자동화 실습 장치(CT-4200M)처럼 매거진 → 공급 → 드릴 가공 → 분배 → 컨베이어 → 금속 취출 / 스토퍼 → 흡착 → 저장 창고 순서로 되어 있어요. 입출력 번호도 검정 장비 할당표(X00~X1F, Y20~Y3F) 그대로라서 수업에서 짠 래더를 그대로 넣어 볼 수 있어요. 설비는 <b>3D 입체</b>로 앞·뒤·옆·대각선 어디서든 돌려 볼 수 있어요.</p>
+    <p class="lead">생산자동화 실습 장치(CT-4200M)처럼 매거진 → 공급 → 분배(드릴 밑으로) → 드릴 가공 → 분배 후진 → 컨베이어 → 금속 취출 / 스토퍼 → 흡착 → 저장 창고 순서로 되어 있어요. 입출력 번호도 검정 장비 할당표(X00~X1F, Y20~Y3F) 그대로라서 수업에서 짠 래더를 그대로 넣어 볼 수 있어요. 설비는 <b>3D 입체</b>로 앞·뒤·옆·대각선 어디서든 돌려 볼 수 있어요.</p>
     <div class="grid3">
       <div class="card"><h3>출력 Y → 설비가 움직임</h3><p><code>Y20</code>·<code>Y21</code> 공급 전진·후진, <code>Y24</code> 드릴 하강, <code>Y27</code> 스토퍼 하강, <code>Y2A</code> 흡착컵, <code>Y2E</code> 컨베이어, <code>Y32~Y35</code> 램프. 전진·후진 Sol은 실제처럼 밸브가 방향을 기억해요.</p></div>
       <div class="card"><h3>센서 → 입력 X로 들어옴</h3><p>실린더마다 전진·후진 센서, 광화이버(<code>X0F</code> 공급 · <code>X10</code> 분배 · <code>X13</code> 스토퍼), 용량형 <code>X11</code>·유도형 <code>X12</code>, 스위치 <code>X19</code> START ~ <code>X1C</code> 비상. 번호는 <a href="io.html">입출력 할당표</a>에서 찾아보세요.</p></div>
@@ -122,7 +122,7 @@
       <a class="card" href="simulator.html#ex-1" style="text-decoration:none;color:inherit"><h3>미션 1 · 자기유지 회로</h3><p>START(X19)·STOP(X1A)으로 컨베이어(Y2E)를 켜고 끄면서, Y2E 병렬 접점을 지우면 어떻게 될지 예상하고, 직접 지워서 확인한 뒤 다시 고쳐요.</p></a>
       <a class="card" href="simulator.html#ex-3" style="text-decoration:none;color:inherit"><h3>미션 2 · ON 딜레이 타이머</h3><p>K30을 K50으로 바꾸면 몇 초일지, 중간에 멈추면 현재값이 어떻게 되는지 확인해요.</p></a>
       <a class="card" href="simulator.html#ex-5" style="text-decoration:none;color:inherit"><h3>미션 3 · 카운터</h3><p>워크감지(X11)가 계속 켜져 있으면(자재가 센서 앞에 멈추면) 몇 개로 셀지 예상하고, 설정값을 바꿔 봐요.</p></a>
-      <a class="card" href="simulator.html#ex-10" style="text-decoration:none;color:inherit"><h3>미션 4 · 설비 자동 운전</h3><p>학교 장비 모양 가상 설비로 공급 → 가공 → 분배 → 분류 단계(스텝 제어)를 따라가고, 정지 후 이어서 움직이는 걸 확인해요.</p></a>
+      <a class="card" href="simulator.html#ex-10" style="text-decoration:none;color:inherit"><h3>미션 4 · 설비 자동 운전</h3><p>학교 장비 모양 가상 설비로 공급 → 분배 → 가공 → 분류 단계(스텝 제어)를 따라가고, 정지 후 이어서 움직이는 걸 확인해요.</p></a>
     </div>
     <div class="grid3" style="margin-top:14px">
       <div class="card"><h3>"왜?" 원인 설명</h3><p>모니터 중 커서를 둔 줄의 출력이 왜 켜졌는지, 어느 접점 때문에 꺼졌는지 문장으로 알려줘요.</p></div>
